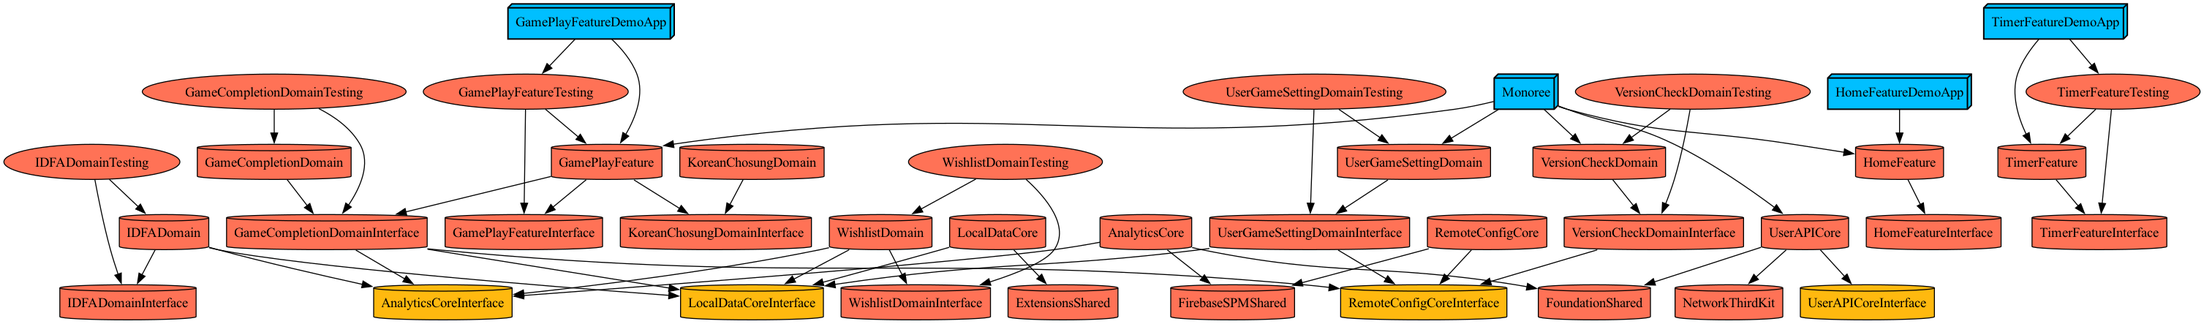
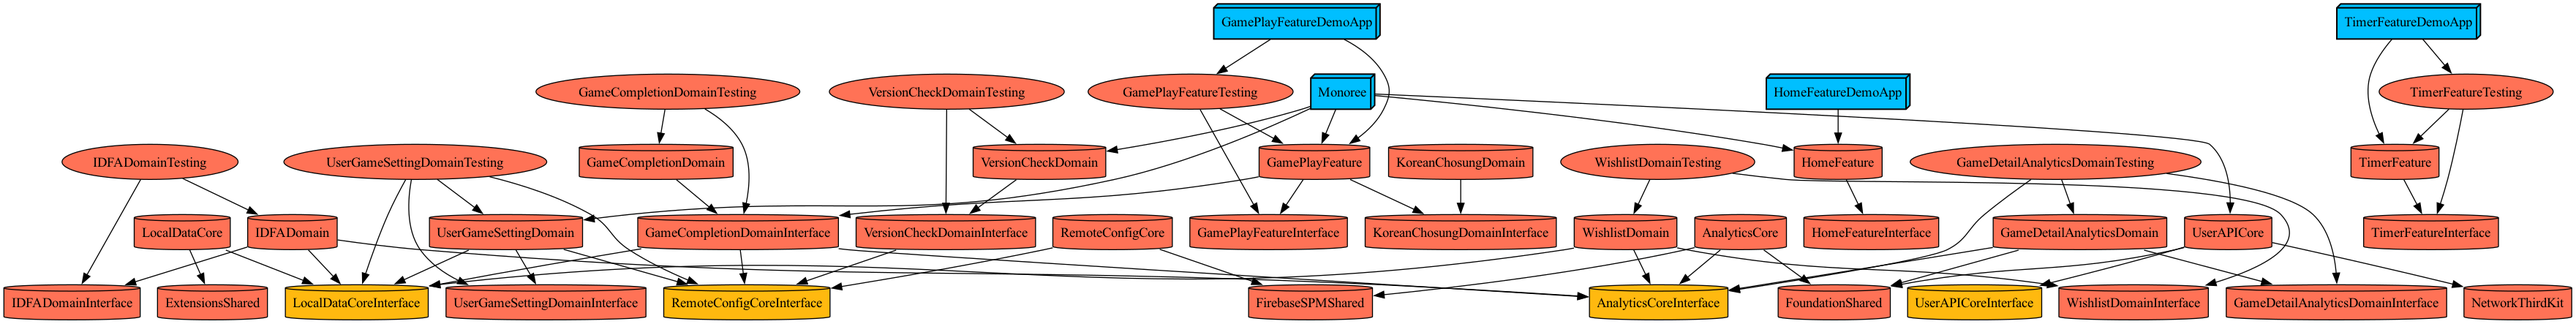
[#79] detailpage analytics (#81)
* [#79] 도메인 모듈 구성

* [#79] 의존성 주입

* [#79] interface 정의

* [#79] 이름 통일

* [#79] 구조 선언

* [#79] 모킹 기본 구조 선언

* [#79] 테스트코드 추가

* [#79] 그래프 추가

* [#79] 의견 ㅂ ㅏㄴ영

* [#79] nil 허용

* [#79] 대체 작업

* [#79] unlimited

* [#79] 갯수 줄이고 한번더

diff --git a/Projects/Domain/GameDetailAnalyticsDomain/Tests/GameDetailAnalyticsDomainTest.swift b/Projects/Domain/GameDetailAnalyticsDomain/Tests/GameDetailAnalyticsDomainTest.swift
@@ -1,0 +1,74 @@
+import GameDetailAnalyticsDomainInterface
+import Testing
+
+@testable import GameDetailAnalyticsDomain
+@testable import GameDetailAnalyticsDomainTesting
+
+struct GameDetailAnalyticsDomainTests {
+    private func makeItem() -> GameDetailItem {
+        return GameDetailItem(
+            item_id: "id-1",
+            item_name: "name-1",
+            item_list_id: "list-1",
+            item_list_name: "list-name",
+            item_category: "cat-1",
+            item_category2: "cat-2",
+            item_variant: "v1"
+        )
+    }
+    
+    @Test("action 이벤트 전송") func actionSendEvent() async {
+        // given
+        let mock = AnalyticsManagerMock()
+        let usecase = GameDetailAnalyticsUsecaseImpl(analytics: mock)
+        
+        // when
+        await usecase.sendEvent(.action(.categoryPlus))
+        
+        // then
+        #expect(mock.sendEventCallCount == 1)
+        #expect(mock.sendEventCalledWith?.name == "select_content")
+    }
+    
+    @Test("add_to_wishlist 이벤트 전송") func addToWishlistSendEvent() async {
+        // given
+        let mock = AnalyticsManagerMock()
+        let usecase = GameDetailAnalyticsUsecaseImpl(analytics: mock)
+        let item = makeItem()
+        
+        // when
+        await usecase.sendEvent(.add_to_wishlist(item))
+        
+        // then
+        #expect(mock.sendEventCallCount == 1)
+        #expect(mock.sendEventCalledWith?.name == "add_to_wishlist")
+    }
+    
+    @Test("view_item 이벤트 전송") func viewItemSendEvent() async {
+        // given
+        let mock = AnalyticsManagerMock()
+        let usecase = GameDetailAnalyticsUsecaseImpl(analytics: mock)
+        let item = makeItem()
+        
+        // when
+        await usecase.sendEvent(.view_item(item))
+        
+        // then
+        #expect(mock.sendEventCallCount == 1)
+        #expect(mock.sendEventCalledWith?.name == "view_item")
+    }
+    
+    @Test("play_item 이벤트 전송") func playItemSendEvent() async {
+        // given
+        let mock = AnalyticsManagerMock()
+        let usecase = GameDetailAnalyticsUsecaseImpl(analytics: mock)
+        let item = makeItem()
+        
+        // when
+        await usecase.sendEvent(.play_item(item))
+        
+        // then
+        #expect(mock.sendEventCallCount == 1)
+        #expect(mock.sendEventCalledWith?.name == "play_item")
+    }
+}

diff --git a/Projects/Domain/GameDetailAnalyticsDomain/Sources/GameDetailAnalyticsUsecaseImpl.swift b/Projects/Domain/GameDetailAnalyticsDomain/Sources/GameDetailAnalyticsUsecaseImpl.swift
@@ -1,0 +1,44 @@
+import Foundation
+import FoundationShared
+import GameDetailAnalyticsDomainInterface
+import AnalyticsCoreInterface
+
+final actor GameDetailAnalyticsUsecaseImpl: GameDetailAnalyticsUsecase {
+    private let analytics: AnalyticsManager
+    
+    init(analytics: AnalyticsManager) {
+        self.analytics = analytics
+    }
+    
+    func sendEvent(_ event: GameDetailAnalyticsEvent) async {
+        switch event {
+        case .add_to_wishlist(let item):
+            guard let item = getSendItem(ListItem.self, item: item) else { return }
+
+            analytics.sendEvent(.add_to_wishlist(AddToWishlist(items: [item])))
+        case .action(let type):
+            analytics.sendEvent(.select_content(SelectContent(
+                content_type: type.content_type,
+                item_id: type.content_id
+            )))
+        case .play_item(let item):
+            guard let item = getSendItem(DetailItem.self, item: item) else { return }
+            
+            analytics.sendEvent(.play_item(ViewItem(items: [item])))
+        case .view_item(let item):
+            guard let item = getSendItem(DetailItem.self, item: item) else { return }
+            
+            analytics.sendEvent(.view_item(ViewItem(items: [item])))
+        }
+    }
+    
+    private func getSendItem<T: Decodable>(
+        _ type: T.Type,
+        item: Encodable
+    ) -> T? {
+        guard let data = item.jsonData() else { return nil }
+        guard let sendItem = try? JSONDecoder().decode(T.self,from: data) else { return nil }
+        
+        return sendItem
+    }
+}

diff --git a/Projects/Domain/GameDetailAnalyticsDomain/Sources/GameDetailActionType+Extension.swift b/Projects/Domain/GameDetailAnalyticsDomain/Sources/GameDetailActionType+Extension.swift
@@ -1,0 +1,39 @@
+import Foundation
+import FoundationShared
+import GameDetailAnalyticsDomainInterface
+
+extension GameDetailActionType {
+    var content_id: String {
+        switch self {
+        case .categoryPlus: return "plus"
+        case .categoryMinus: return "minus"
+        case .category1(let id): return id
+        case .category2(let id): return id
+        case .question(let count): return count.toString
+        case .secondPerQuestion(let second): return second.toString
+        case .team(let count): return count.toString
+        case .hint(let bool): return bool.toString
+        case .custom(let id, _): return id
+        }
+    }
+    
+    var content_type: String {
+        switch self {
+        case .categoryPlus: return "category"
+        case .categoryMinus: return "category"
+        case .category1: return "item_category1"
+        case .category2: return "item_category2"
+        case .question: return toName
+        case .secondPerQuestion: return "second_per_question"
+        case .team: return toName
+        case .hint: return toName
+        case .custom(_, let type): return type
+        }
+    }
+    
+    private var toName: String {
+        return String(describing: self)
+            .components(separatedBy: "(")
+            .first ?? ""
+    }
+}

diff --git a/Projects/Domain/GameDetailAnalyticsDomain/Project.swift b/Projects/Domain/GameDetailAnalyticsDomain/Project.swift
@@ -1,0 +1,35 @@
+import ProjectDescription
+import ProjectDescriptionHelpers
+
+let project = Project.module(
+    name: DomainModule.GameDetailAnalyticsDomain.name,
+    settings: .Module.default,
+    targets: [
+        .interface(
+            domain: .GameDetailAnalyticsDomain,
+            dependencies: []
+        ),
+        .implementation(
+            domain: .GameDetailAnalyticsDomain,
+            dependencies: [
+                .shared(target: .FoundationShared),
+                .core(target: .AnalyticsCore, type: .interface),
+                .domain(target: .GameDetailAnalyticsDomain, type: .interface),
+            ]
+        ),
+        .testing(
+            domain: .GameDetailAnalyticsDomain,
+            dependencies: [
+                .core(target: .AnalyticsCore, type: .interface),
+                .domain(target: .GameDetailAnalyticsDomain, type: .interface),
+            ]
+        ),
+        .tests(
+            domain: .GameDetailAnalyticsDomain,
+            dependencies: [
+                .domain(target: .GameDetailAnalyticsDomain, type: .implementation),
+                .domain(target: .GameDetailAnalyticsDomain, type: .testing),
+            ]
+        ),
+    ]
+)

diff --git a/Projects/Domain/GameCompletionDomain/Project.swift b/Projects/Domain/GameCompletionDomain/Project.swift
@@ -8,20 +8,24 @@ let project = Project.module(
         .interface(
             domain: .GameCompletionDomain,
             dependencies: [
-                .core(target: .RemoteConfigCore, type: .interface),
-                .core(target: .LocalDataCore, type: .interface),
-                .core(target: .AnalyticsCore, type: .interface),
             ]
         ),
         .implementation(
             domain: .GameCompletionDomain,
             dependencies: [
+                .core(target: .RemoteConfigCore, type: .interface),
+                .core(target: .LocalDataCore, type: .interface),
+                .core(target: .AnalyticsCore, type: .interface),
                 .domain(target: .GameCompletionDomain, type: .interface),
             ]
         ),
         .testing(
             domain: .GameCompletionDomain,
             dependencies: [
+                .shared(target: .ExtensionsShared),
+                .core(target: .RemoteConfigCore, type: .interface),
+                .core(target: .LocalDataCore, type: .interface),
+                .core(target: .AnalyticsCore, type: .interface),
                 .domain(target: .GameCompletionDomain, type: .interface),
             ]
         ),

diff --git a/Projects/Core/AnalyticsCore/Interface/model/ListItem.swift b/Projects/Core/AnalyticsCore/Interface/model/ListItem.swift
@@ -3,9 +3,30 @@ import Foundation
 public struct ListItem: Codable {
     public let item_id: String
     public let item_name: String
+    public let item_category: String?
+    public let item_category2: String?
+    public let item_category3: String?
+    public let item_category4: String?
+    public let item_category5: String?
+    public let item_variant: String?
     
-    public init(item_id: String, item_name: String) {
+    public init(
+        item_id: String,
+        item_name: String,
+        item_category: String? = nil,
+        item_category2: String? = nil,
+        item_category3: String? = nil,
+        item_category4: String? = nil,
+        item_category5: String? = nil,
+        item_variant: String? = nil
+    ) {
         self.item_id = item_id
         self.item_name = item_name
+        self.item_category = item_category
+        self.item_category2 = item_category2
+        self.item_category3 = item_category3
+        self.item_category4 = item_category4
+        self.item_category5 = item_category5
+        self.item_variant = item_variant
     }
 }

diff --git a/Projects/Domain/GameDetailAnalyticsDomain/Interface/GameDetailItem.swift b/Projects/Domain/GameDetailAnalyticsDomain/Interface/GameDetailItem.swift
@@ -1,0 +1,29 @@
+import Foundation
+
+public struct GameDetailItem: Sendable, Codable {
+    public let item_id: String
+    public let item_name: String
+    public let item_list_id: String
+    public let item_list_name: String
+    public let item_category: String
+    public let item_category2: String?
+    public let item_variant: String
+    
+    public init(
+        item_id: String,
+        item_name: String,
+        item_list_id: String,
+        item_list_name: String,
+        item_category: String,
+        item_category2: String?,
+        item_variant: String
+    ) {
+        self.item_id = item_id
+        self.item_name = item_name
+        self.item_list_id = item_list_id
+        self.item_list_name = item_list_name
+        self.item_category = item_category
+        self.item_category2 = item_category2
+        self.item_variant = item_variant
+    }
+}

diff --git a/Projects/Core/AnalyticsCore/Interface/model/DetailItem.swift b/Projects/Core/AnalyticsCore/Interface/model/DetailItem.swift
@@ -10,6 +10,7 @@ public struct DetailItem: Codable {
     public let item_category3: String?
     public let item_category4: String?
     public let item_category5: String?
+    public let item_variant: String?
     
     public init(
         item_id: String,
@@ -20,7 +21,8 @@ public struct DetailItem: Codable {
         item_category2: String? = nil,
         item_category3: String? = nil,
         item_category4: String? = nil,
-        item_category5: String? = nil
+        item_category5: String? = nil,
+        item_variant: String? = nil
     ) {
         self.item_id = item_id
         self.item_name = item_name
@@ -31,5 +33,6 @@ public struct DetailItem: Codable {
         self.item_category5 = item_category5
         self.item_list_id = item_list_id
         self.item_list_name = item_list_name
+        self.item_variant = item_variant
     }
 }

diff --git a/Projects/Domain/GameCompletionDomain/Testing/GameConfigManagerMock.swift b/Projects/Domain/GameCompletionDomain/Testing/GameConfigManagerMock.swift
@@ -16,7 +16,12 @@ final class GameConfigManagerMock: GameConfigManager {
     func fetchGame() throws -> any RemoteConfigCoreInterface.GameConfigDTO {
         switch testType {
         case .normal(let perAd):
-            return GameConfigDTOMock(gamePlaysPerAd: perAd)
+            return GameConfigDTOMock(
+                questionCount: 0,
+                timePerQuestion: 0,
+                teamCount: 0,
+                gamePlaysPerAd: perAd
+            )
         case .error:
             throw RemoteConfigError.unknown
         }
@@ -24,5 +29,11 @@ final class GameConfigManagerMock: GameConfigManager {
 }
 
 struct GameConfigDTOMock: RemoteConfigCoreInterface.GameConfigDTO {
+    var questionCount: Int
+    
+    var timePerQuestion: Int
+    
+    var teamCount: Int
+    
     let gamePlaysPerAd: Int
 }

diff --git a/Projects/Domain/UserGameSettingDomain/Tests/UserGameSettingDomainTest.swift b/Projects/Domain/UserGameSettingDomain/Tests/UserGameSettingDomainTest.swift
@@ -93,7 +93,7 @@ import UserGameSettingDomainInterface
         #expect(config.timePerQuestion == .second(9))
     }
     
-    @Test("setter: timePerQuestion .unlimited 저장 안 함 (원래 값 유지)")
+    @Test("setter: timePerQuestion .unlimited 저장 (원래 값 유지)")
     func setterUnlimitedDoesNotPersist() async {
         // given
         let remote = GameConfigManagerMock()
@@ -107,7 +107,7 @@ import UserGameSettingDomainInterface
         let config = await sut.getConfig()
         
         // then -> local value should remain 6
-        #expect(config.timePerQuestion == .second(6))
+        #expect(config.timePerQuestion == .unlimited)
     }
     
     @Test("setter: teamCount 설정 후 getConfig에 반영")

diff --git a/Projects/Domain/GameCompletionDomain/Sources/GameCompletionUsecaseImpl.swift b/Projects/Domain/GameCompletionDomain/Sources/GameCompletionUsecaseImpl.swift
@@ -5,7 +5,7 @@ import AnalyticsCoreInterface
 import LocalDataCoreInterface
 
 final class GameCompletionUsecaseImpl: GameCompletionUseCase {
-    private let analytics: AnalyticsProtocol
+    private let analytics: AnalyticsManager
     private let remoteConfig: GameConfigManager
     private let localData: GameLocalDataManager
     
@@ -15,7 +15,7 @@ final class GameCompletionUsecaseImpl: GameCompletionUseCase {
     init(
         remoteConfig: any GameConfigManager,
         localData: any GameLocalDataManager,
-        analytics: any AnalyticsProtocol
+        analytics: any AnalyticsManager
     ) {
         self.analytics = analytics
         self.localData = localData

diff --git a/Projects/Domain/WishlistDomain/Sources/WishlistUsecaseImpl.swift b/Projects/Domain/WishlistDomain/Sources/WishlistUsecaseImpl.swift
@@ -4,7 +4,7 @@ import AnalyticsCoreInterface
 import LocalDataCoreInterface
 
 final actor WishlistUsecaseImpl: @preconcurrency WishlistUsecase {
-    private let analytics: AnalyticsProtocol
+    private let analytics: AnalyticsManager
     private let localData: LocalDataManager
     private var changedContinuation: AsyncStream<WishlistUpdateType>.Continuation?
     
@@ -15,7 +15,7 @@ final actor WishlistUsecaseImpl: @preconcurrency WishlistUsecase {
     }()
     
     init(
-        analytics: AnalyticsProtocol,
+        analytics: AnalyticsManager,
         localData: LocalDataManager
     ) {
         self.analytics = analytics
